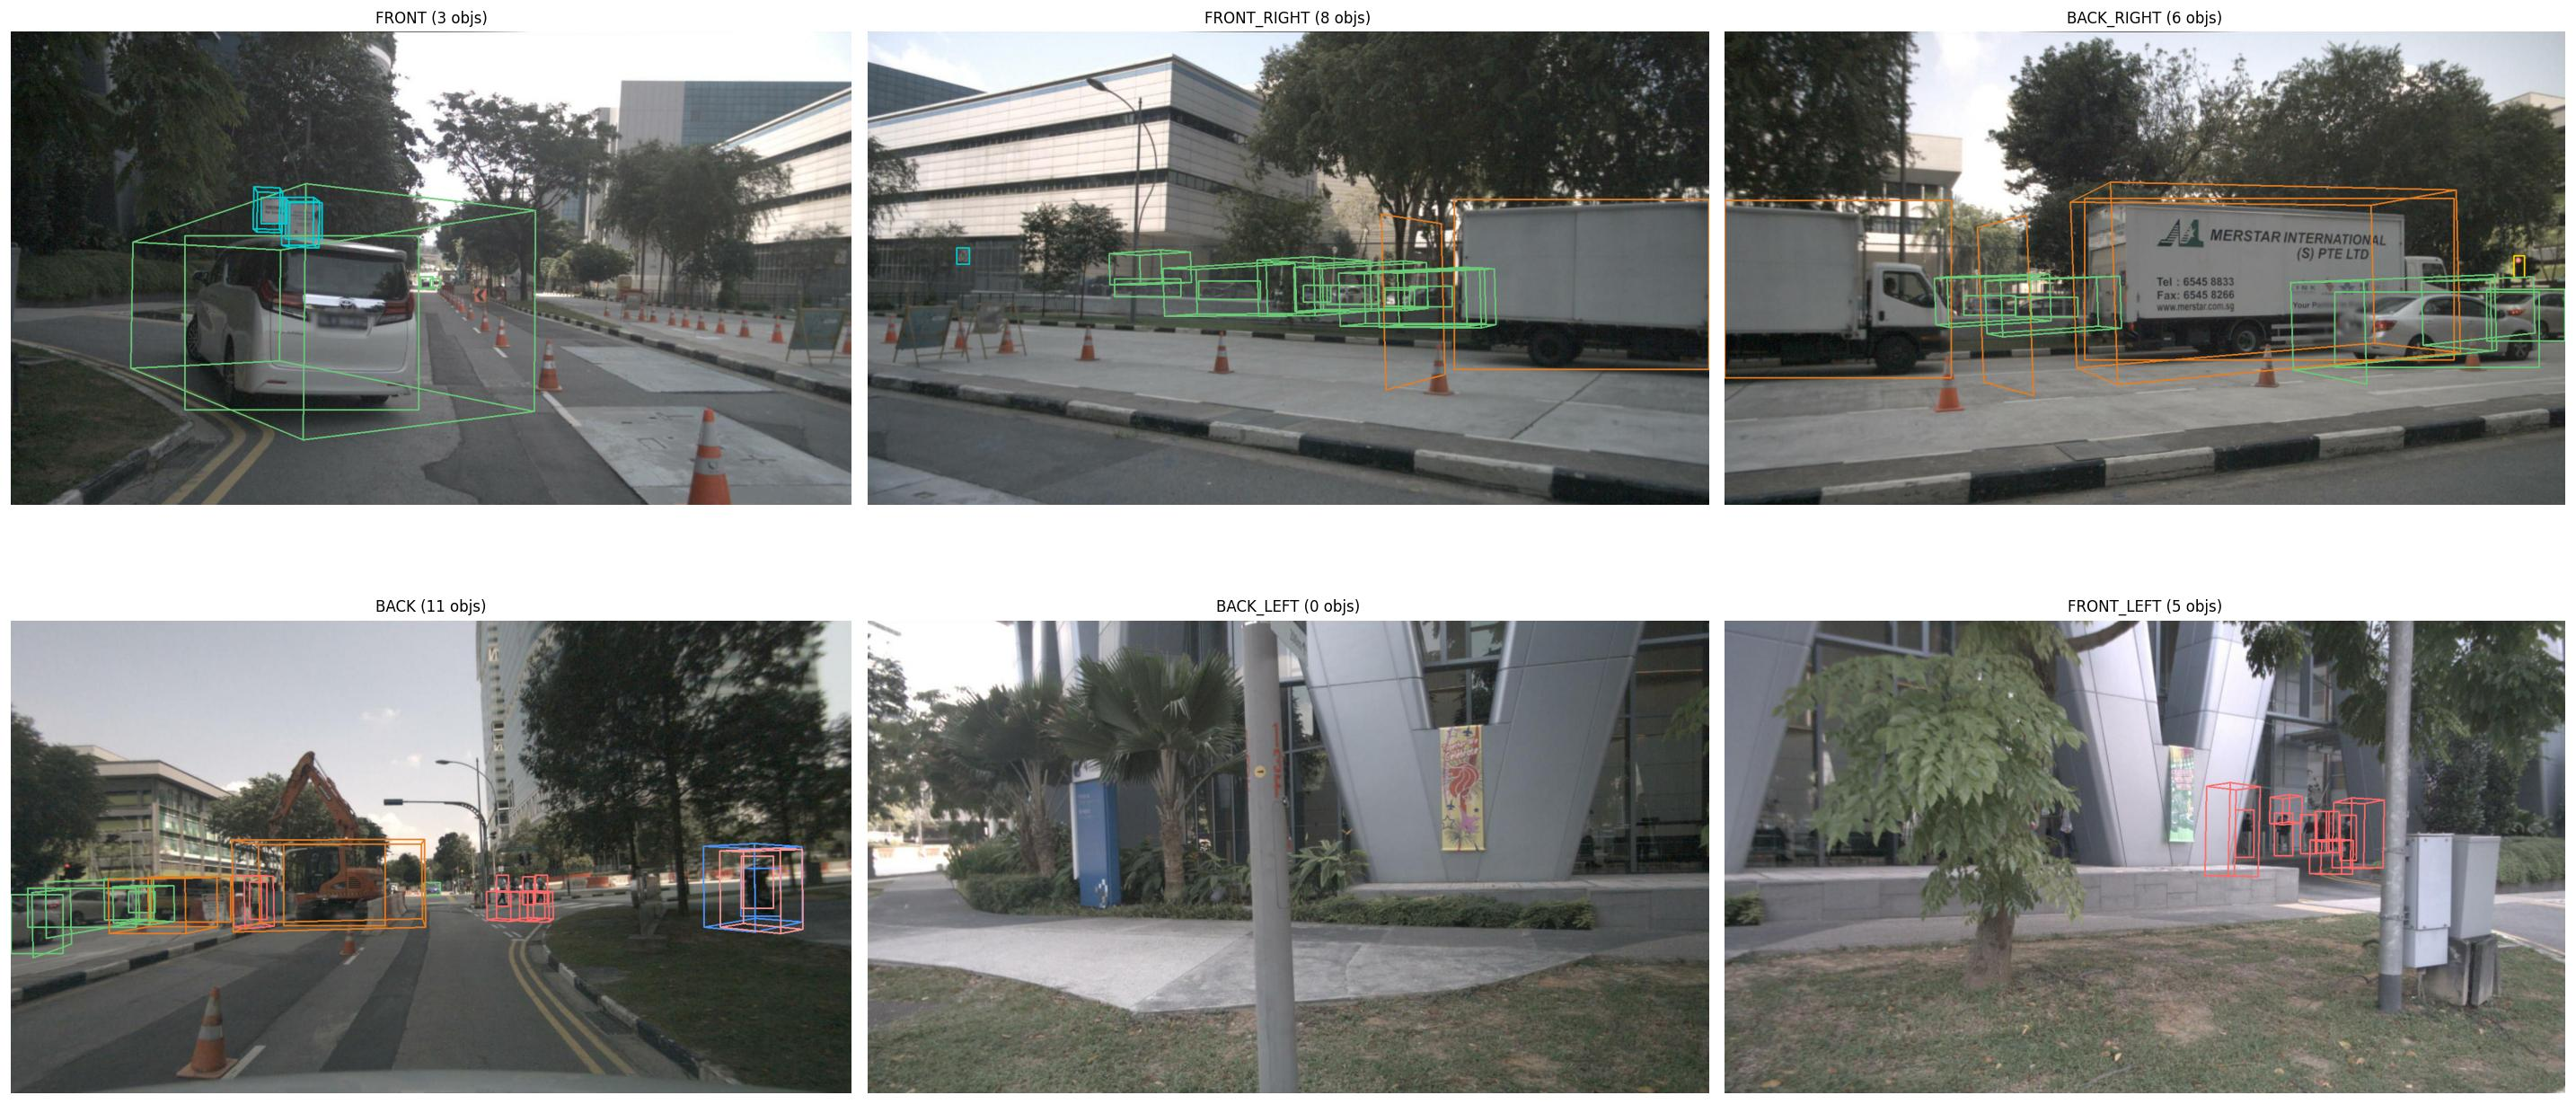
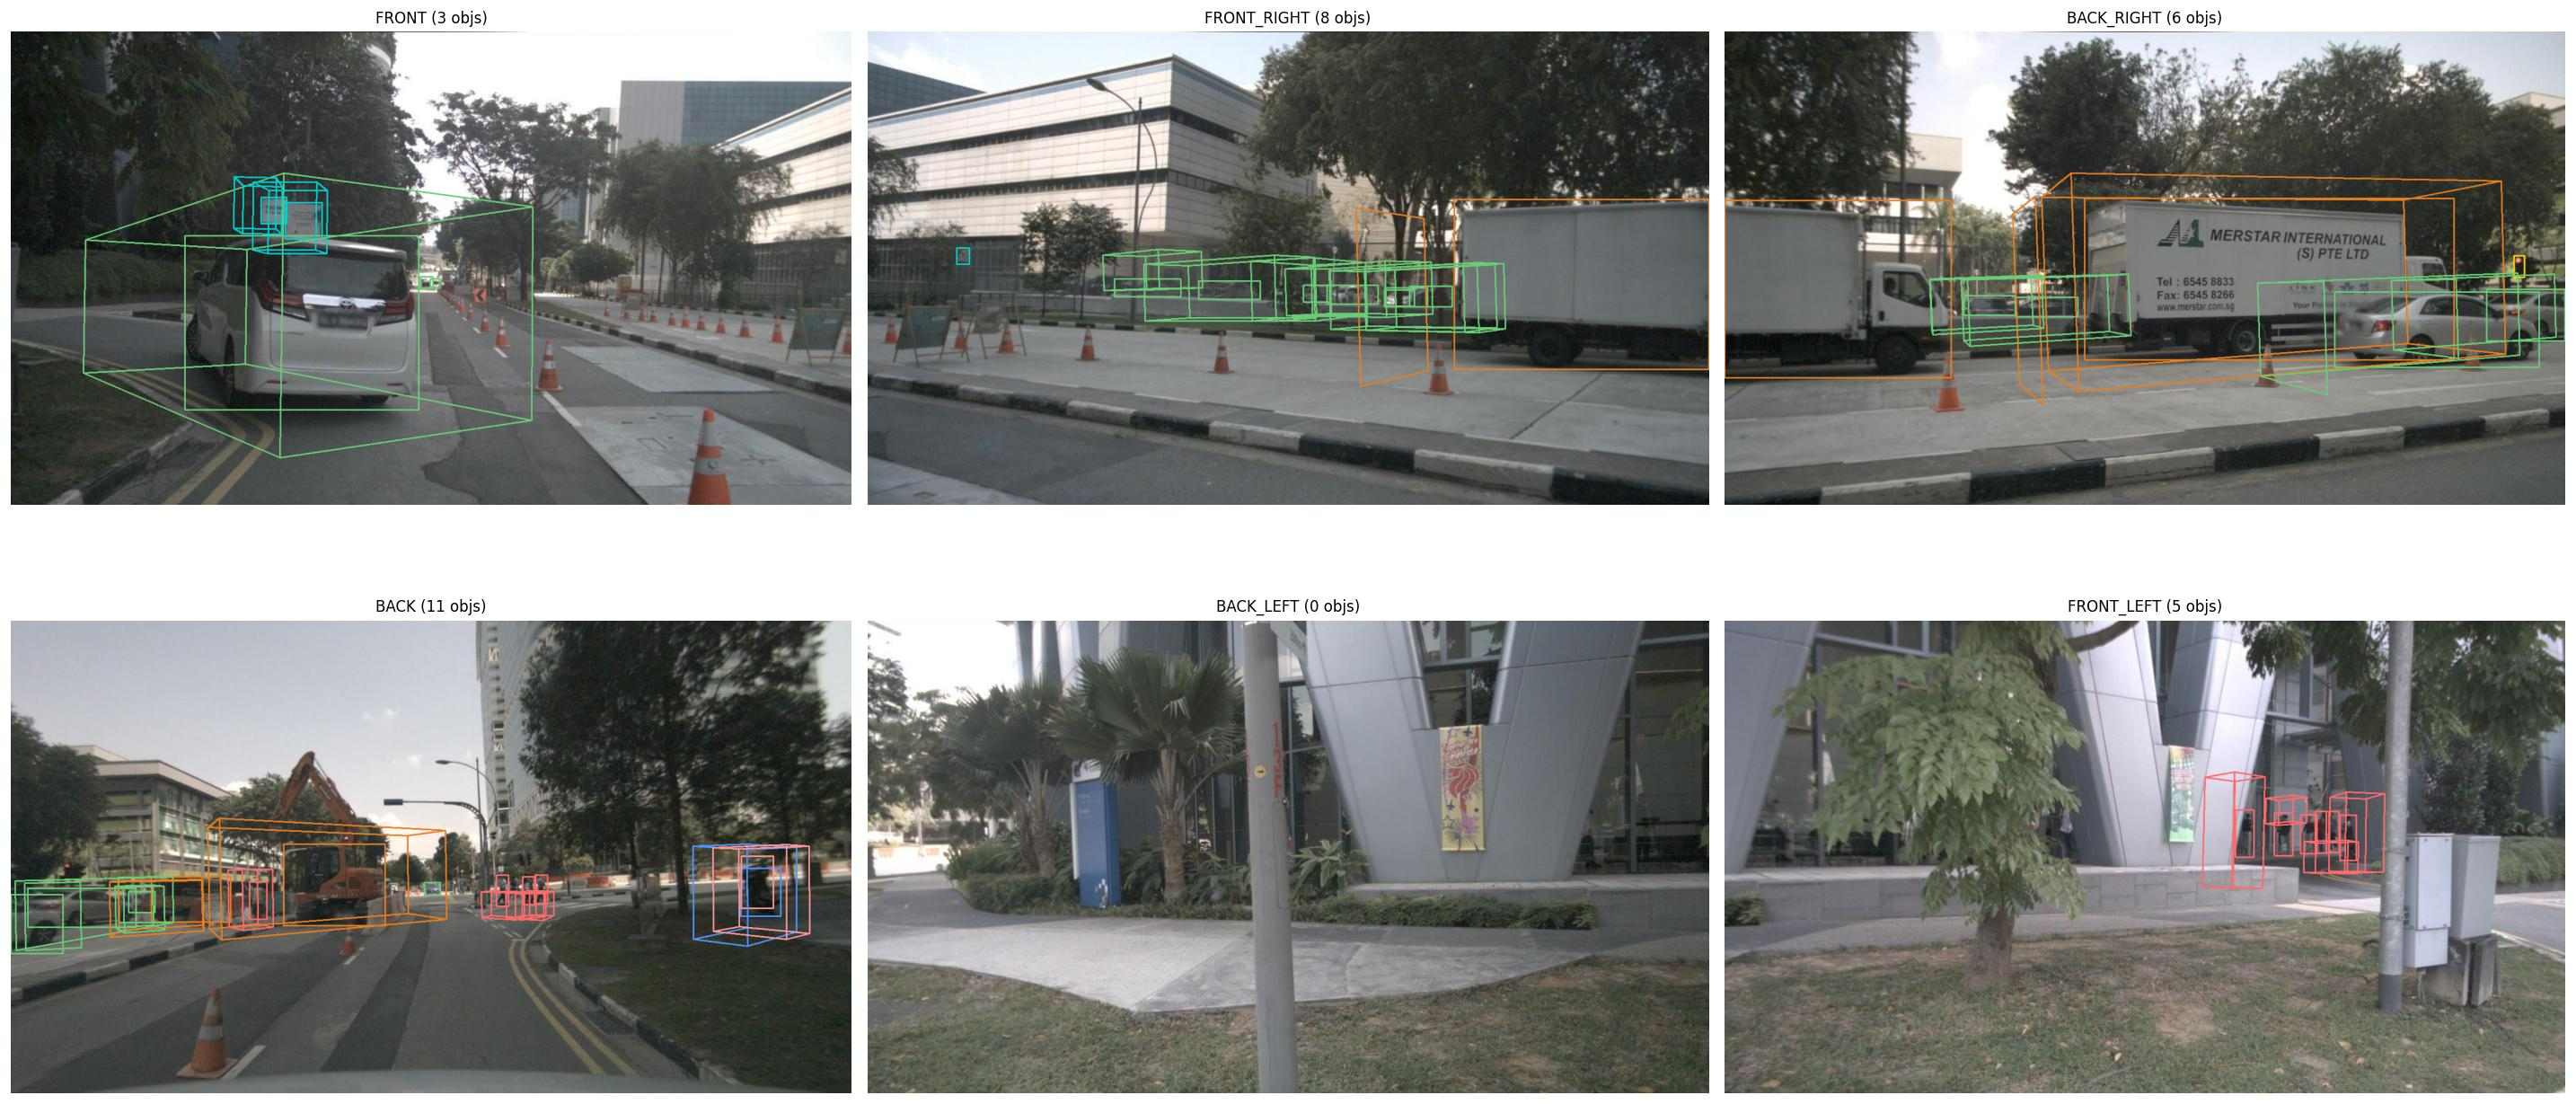
Tighten cross-camera dedup to 1.5m; continue training to 150 epochs

diff --git a/scripts/visualize_360.py b/scripts/visualize_360.py
@@ -67,7 +67,7 @@ for di in range(min(2, len(ds.frames))):
                 dup = True; break
         if not dup: cam_dedup[cam].append(p)
 
-    # Step 2: cross-camera dedup (same class, <2.5m XY → same obj, keep best pts)
+    # Step 2: cross-camera dedup (same class, <1.5m XY → same obj, keep best pts)
     all_dets_dedup = []
     for cam, dets in cam_dedup.items():
         for p in dets: all_dets_dedup.append(p)